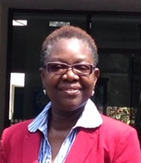
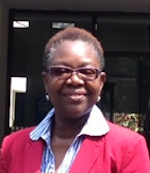
new pictures

diff --git a/PERSONAS.md b/PERSONAS.md
@@ -16,8 +16,8 @@ User of one or more applications within the BIBBOX installation.
 
 [roxana]: https://raw.githubusercontent.com/bibbox/sys-bibbox-frontend/master/personas/roxana.jpg
 [alan]: https://raw.githubusercontent.com/bibbox/sys-bibbox-frontend/master/personas/alan.jpg
-[maimuna]: https://raw.githubusercontent.com/bibbox/sys-bibbox-frontend/master/personas/maimuna.jpg
-[santa]: https://raw.githubusercontent.com/bibbox/sys-bibbox-frontend/master/personas/santa.jpg
+[maimuna]: https://raw.githubusercontent.com/bibbox/sys-bibbox-frontend/master/personas/maimuna.png
+[santa]: https://raw.githubusercontent.com/bibbox/sys-bibbox-frontend/master/personas/santa.png
 [carmen]: https://raw.githubusercontent.com/bibbox/sys-bibbox-frontend/master/personas/carmen.jpg
 
 [vm-admin]: https://raw.githubusercontent.com/bibbox/res-images/master/user-roles-icons/vm-admin_small.png
